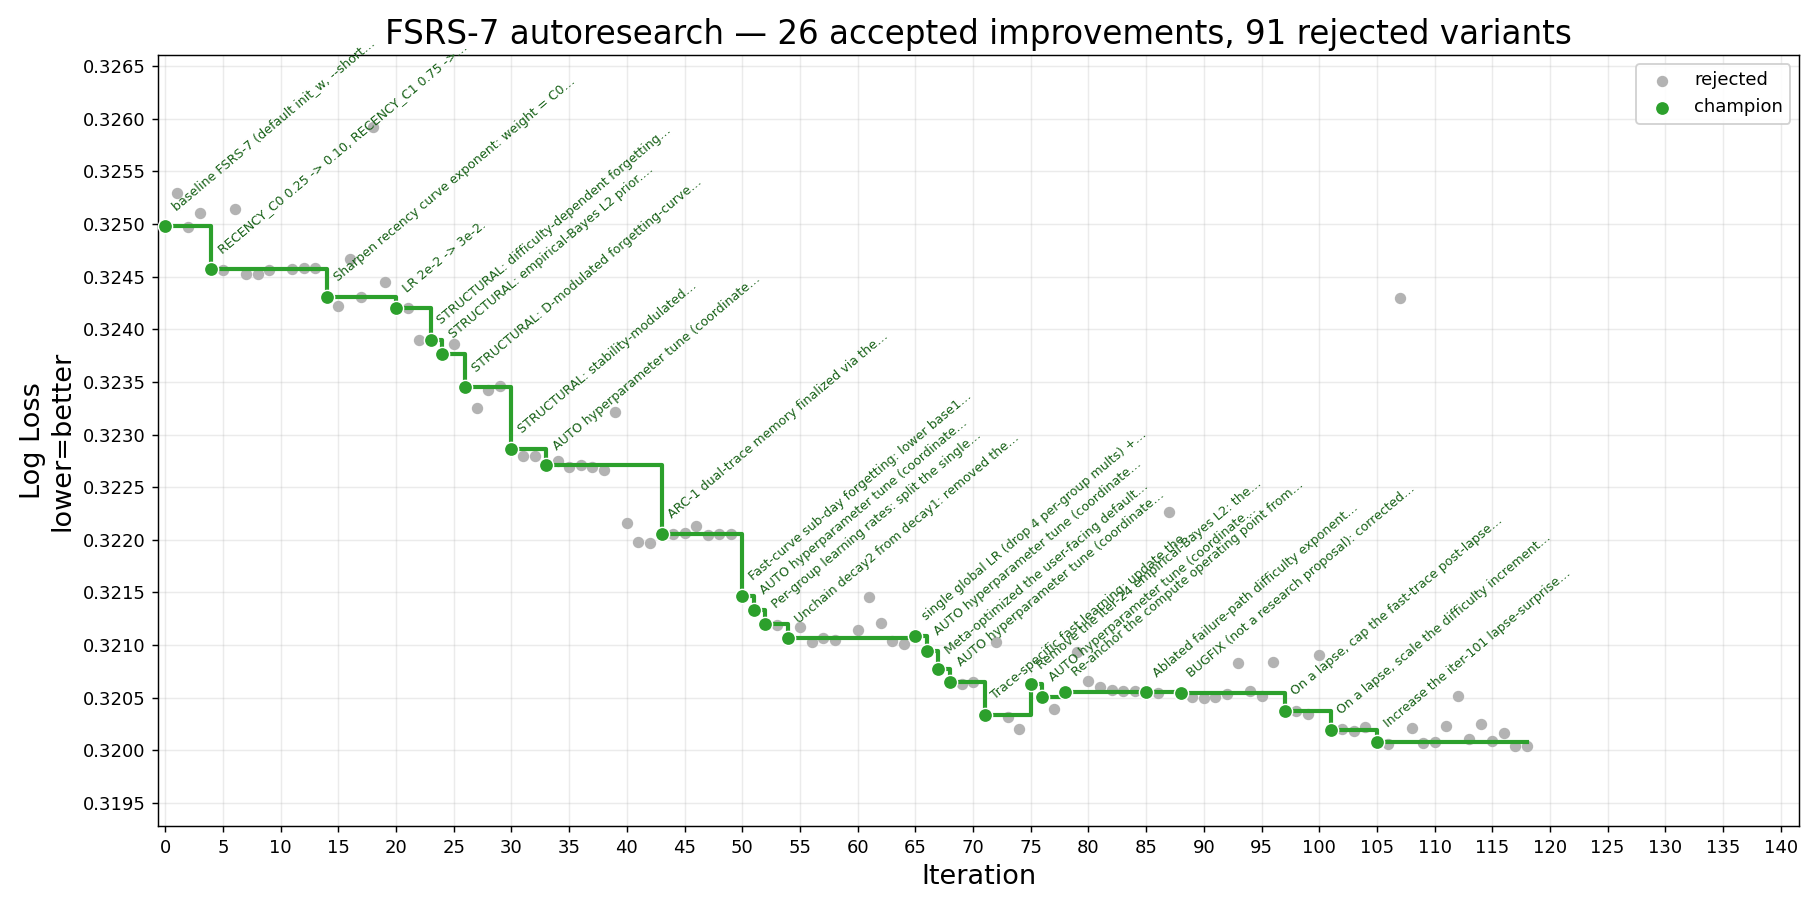
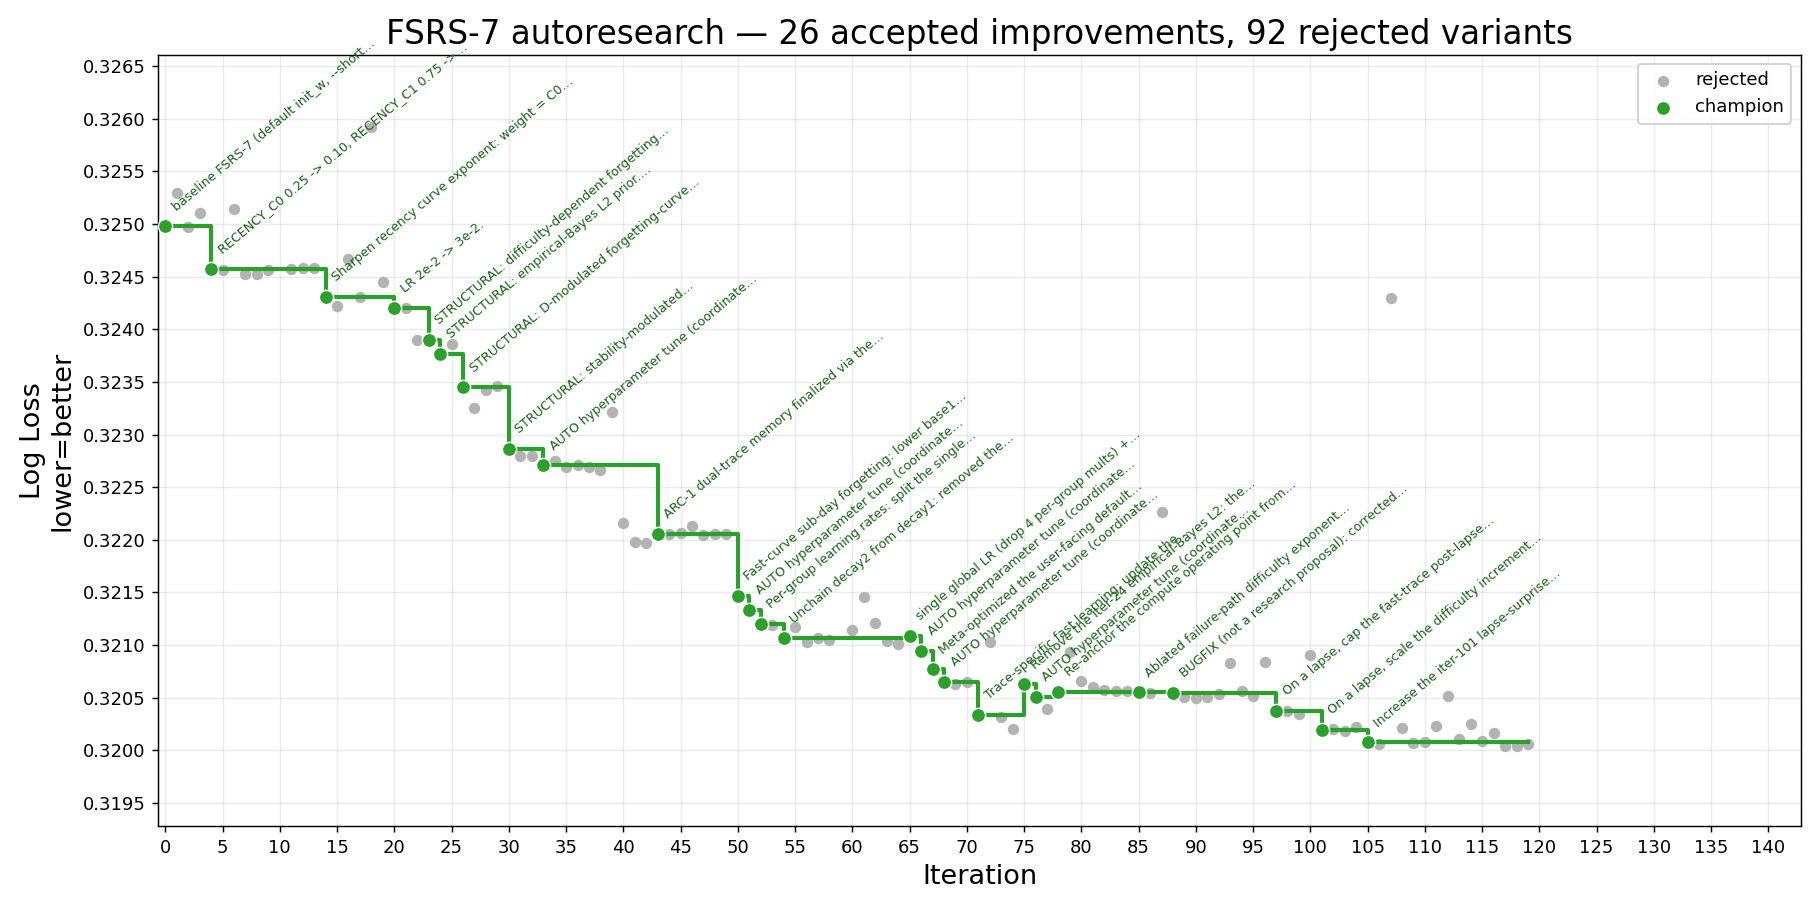
iter 119 (rejected): lower post-lapse fast cap 0.8->0.6 -- overshoots short<1d trade-off; +1.6e-5 sub-threshold

diff --git a/result/history.md b/result/history.md
@@ -1,6 +1,6 @@
 # FSRS-7 autoresearch — iteration history
 
-_118 record(s). Generated from `history.jsonl` — do not edit by hand._
+_119 record(s). Generated from `history.jsonl` — do not edit by hand._
 
 | # | Time (UTC) | Thresh. | LL before | LL after | Δ LL | Cx before | Cx after | Δ Cx % | Status | Summary |
 |--:|---|---:|---:|---:|---:|---:|---:|---:|---|---|
@@ -122,3 +122,4 @@ _118 record(s). Generated from `history.jsonl` — do not edit by hand._
 | 116 | 2026-06-04T08:37:34 | 0.0001 | 0.32008 | 0.32017 | -0.00009 | 16,930 | 16,993 | +0.37% | rejected | On a lapse, floor the post-lapse SLOW stability at 0.3x the pre-lapse slow stability (relearning savings). |
 | 117 | 2026-06-04T08:46:41 | 0.0001 | 0.32008 | 0.32004 | +0.00003 | 16,930 | 16,956 | +0.15% | rejected | Make the fast-trace init/reset fraction difficulty-dependent: 0.8*exp(-0.05*(D-5)) instead of flat 0.8 (harder cards relearn less). |
 | 118 | 2026-06-04T08:51:23 | 0.0001 | 0.32008 | 0.32004 | +0.00004 | 16,930 | 16,961 | +0.18% | rejected | Strengthen the D-dependent fast-init fraction to min(0.99, 0.8*exp(-0.12*(D-5))) (larger k=0.12, capped easy side). |
+| 119 | 2026-06-04T09:04:50 | 0.0001 | 0.32008 | 0.32006 | +0.00002 | 16,930 | 16,930 | +0.00% | rejected | Lower the iter-97 post-lapse fast-trace reset cap fraction from 0.8 to 0.6 (sharper relearning forgetting). |
